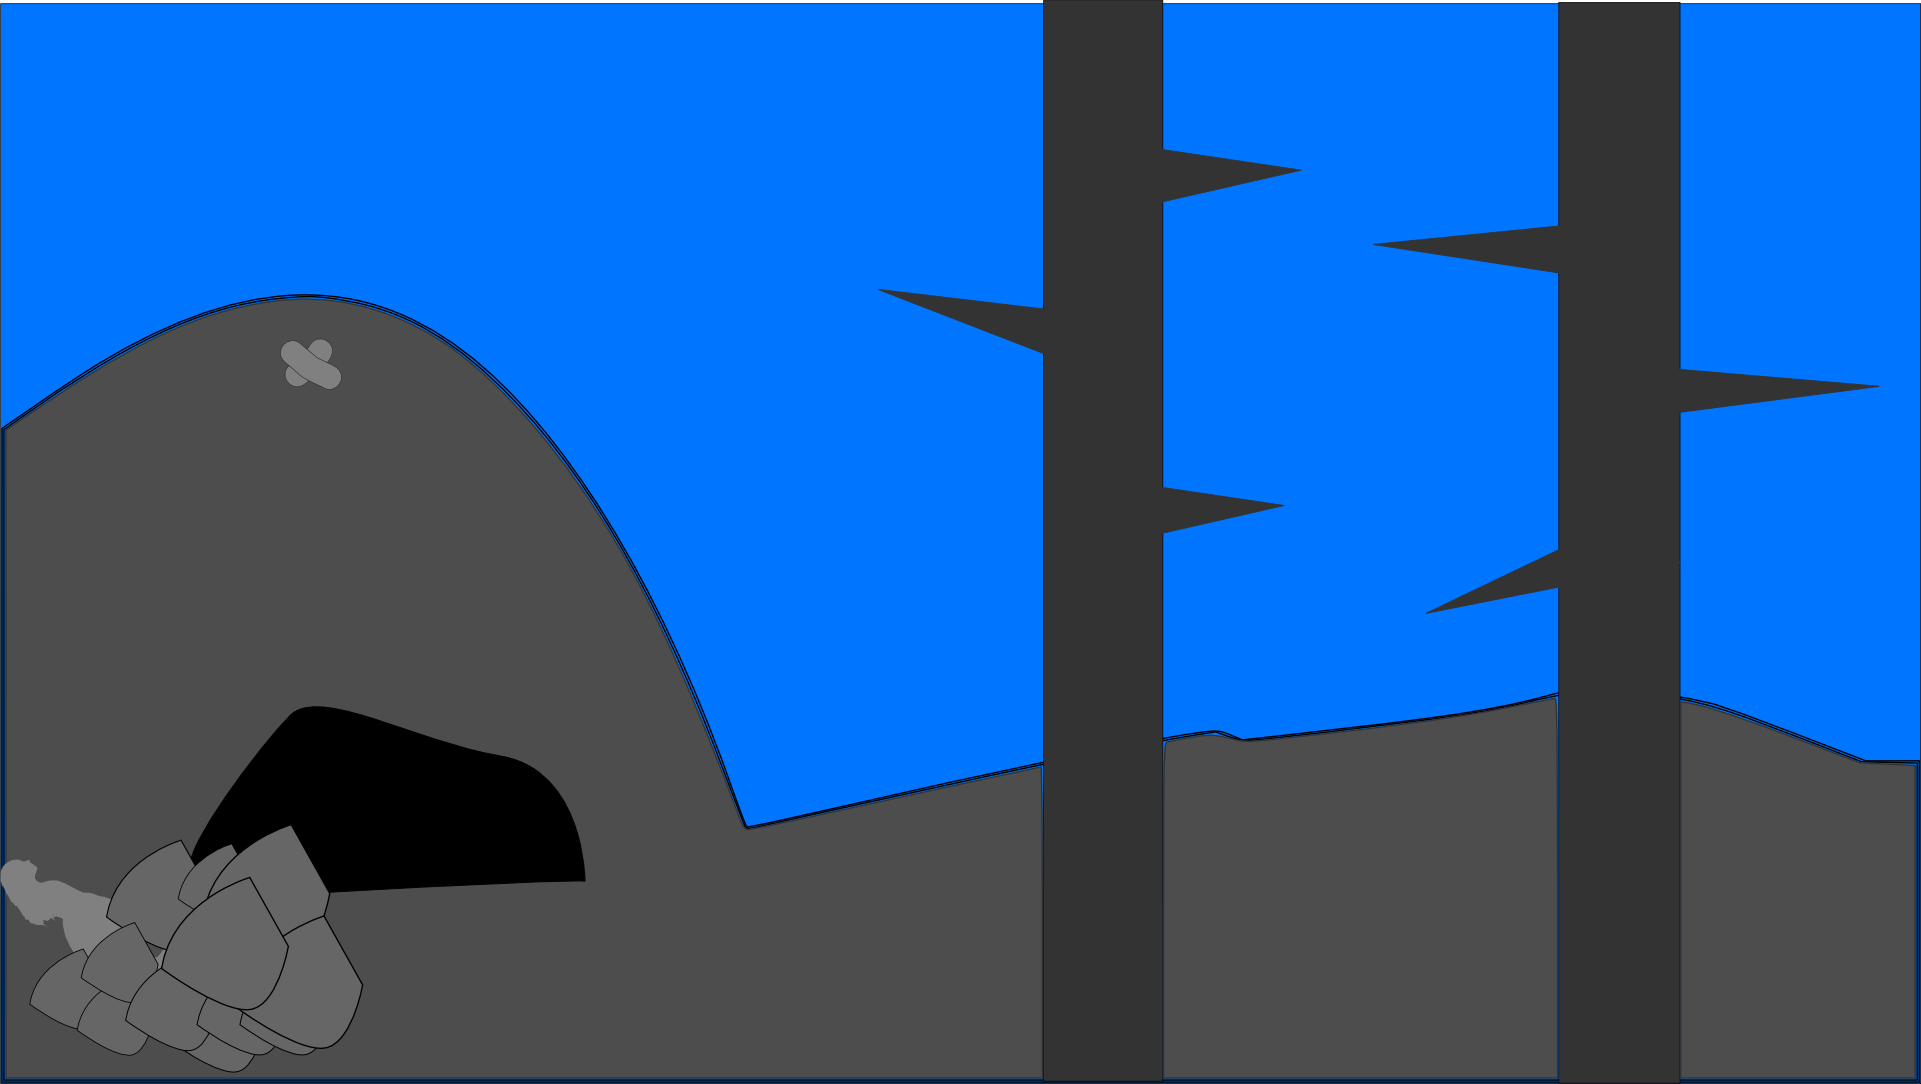
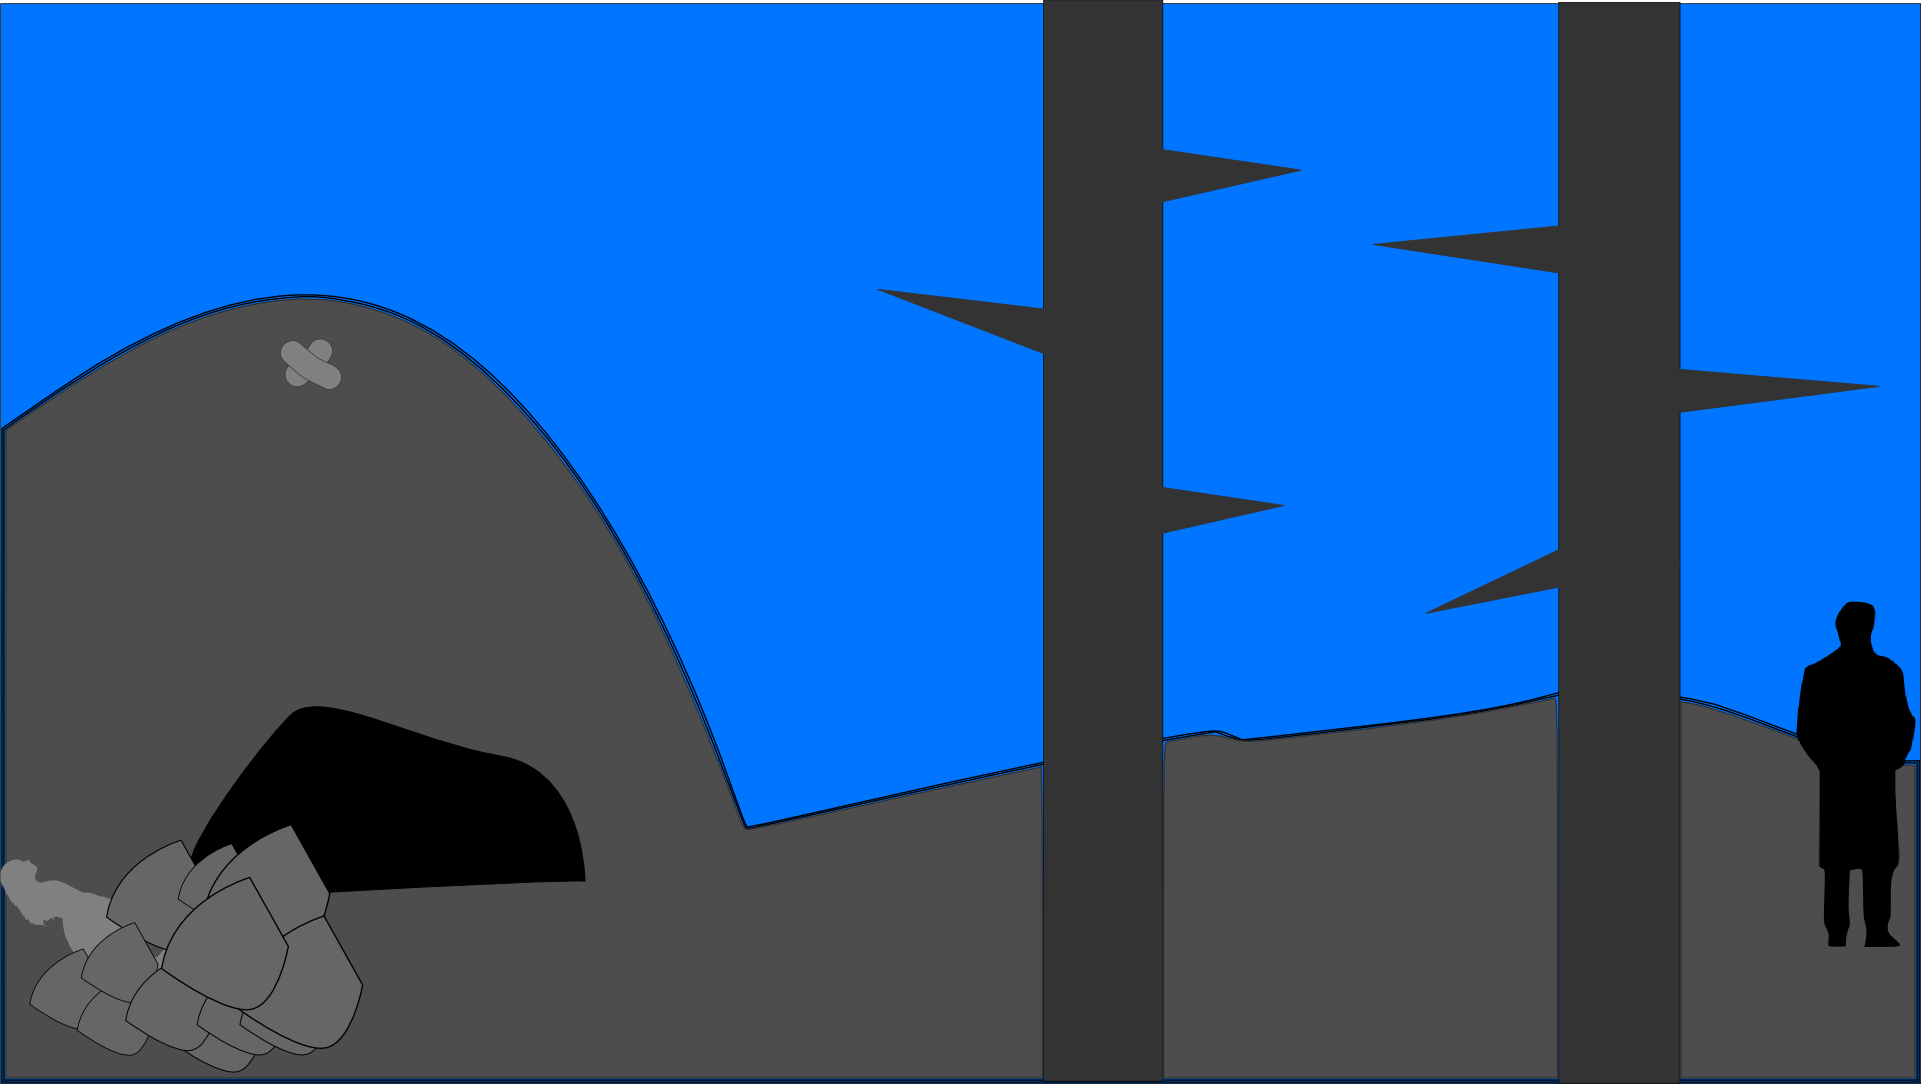
Slight change

Changed region(s): [[0.937, 0.548, 0.9995, 0.8828]]

diff --git a/bellaDownCliff.html b/bellaDownCliff.html
@@ -9,7 +9,11 @@
 <body>
   <div class="content">
   <h1><br />Go down the hill</h1>
-  <p><br />As you make your way downwards, the unstable rocks starts to slide, along with you. You break several of your bones, and daze off in your last moments.
+  <p><br />As you make your way downwards, the unstable rocks starts to slide, along with you. You break several of your bones.
+  <br /><br />
+  You hear someone approaching, but the pain is unbearable, even if they were friendly, it'd be too late.
+  <br /><br />
+  You daze off in your last moments.
 
  <br /></p>
 </div>
